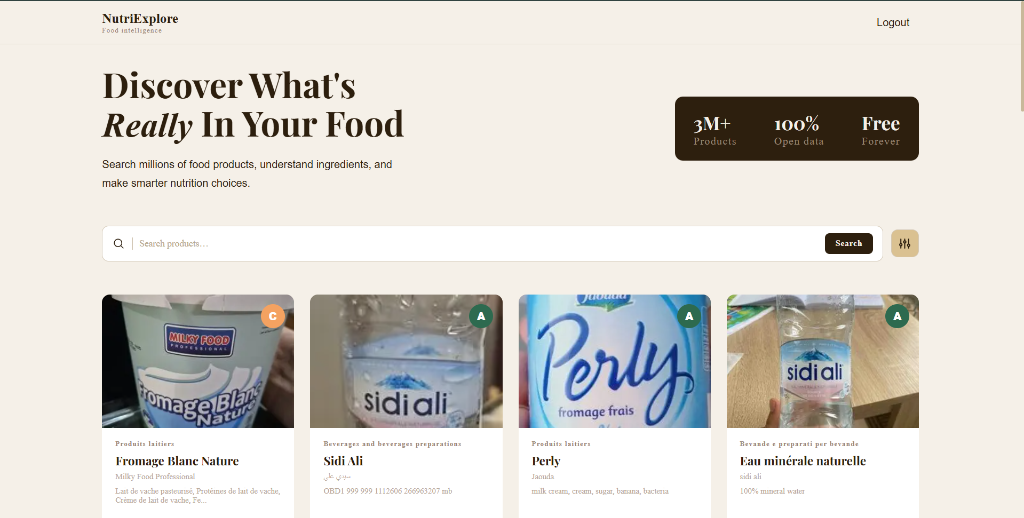
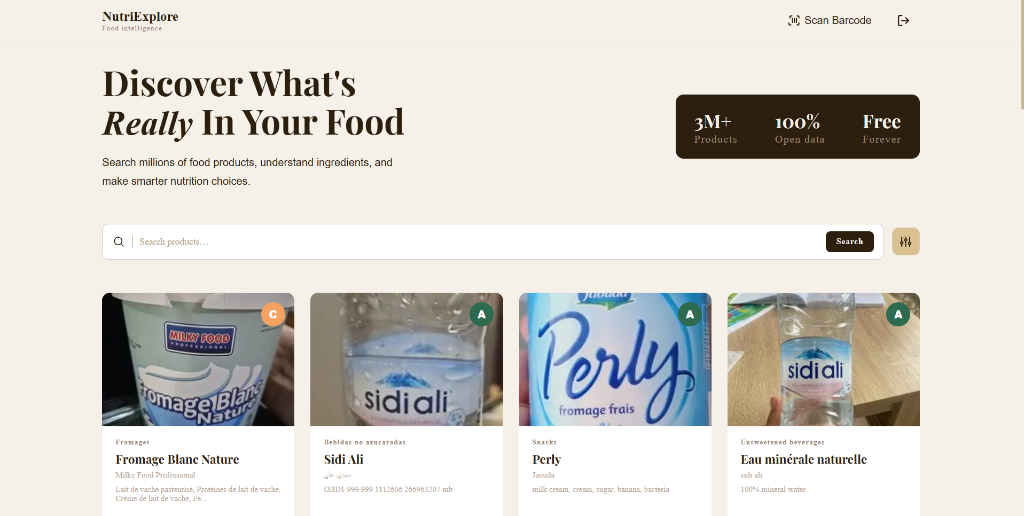
Kushagra dev (#60)
* Update page.jsx

* Import layout components and AnimatePresence

Update src/app/page.jsx to add useState/useEffect and AnimatePresence from framer-motion, and import Header, Main, and Footer components. Prepares the page to manage client-side state and mount layout components with presence animations.

* Mobile-friendly cursor & clicks for project cards

Make project cards usable on touch devices: move the global .project-row-card { cursor: none } into a min-width:501px media query and restore cursor styles for <=500px, ensuring links/buttons/image container show pointer on mobile. Update Main.jsx to initialize window width safely for SSR, set actual width on mount, and derive isMobile to components. ProjectCard now suppresses the hover tooltip on mobile, uses pointer cursor, handles clicks to open the live link only on mobile, and stops propagation on action clicks. These changes preserve the desktop aesthetic (hidden cursor) while restoring expected touch behavior and accessibility on mobile devices.

* Add dynamic Open Graph image component

Introduce an edge-runtime Open Graph image generator using Next.js ImageResponse (src/app/opengraph-image.jsx). Exports alt, size, contentType and composes a programmatic PNG with three stylized lines for the portfolio header. Remove the previous static opengraph-image.png in favor of this maintainable, dynamic JSX-based OG image.

* Update project.js

* Update Footer.jsx

* Replace favicon.ico with icon.png
[…]

diff --git a/src/data/project.js b/src/data/project.js
@@ -127,8 +127,19 @@ export const projectsData = [
     category: "Full Stack",
     title: "NutriExplore",
     description:
-      "Search out what's inside your packaged food. Check ingredients, nutrition, and product details in seconds.",
+      "Understanding what's actually inside packaged food can be difficult and time-consuming. NutriExplore simplifies this by providing instant access to millions of food products, their ingredients, and nutritional data.",
     image: "/projects/nutriexplore.png",
+    features: [
+      "Access to 3M+ products with 100% open data",
+      "Barcode scanning for instant product lookup",
+      "Nutri-Score and comprehensive ingredient analysis",
+      "Search and filter by product categories",
+    ],
+    problem:
+      "Scan any food packet's barcode to instantly uncover the truth about its ingredients.",
+
+    learned:
+      "Integrated the Open Food Facts API to handle massive amounts of open data, implemented barcode scanning functionality, and designed an intuitive UI to make complex nutritional information easily digestible.",
     links: {
       live: "https://nutriexplore.vercel.app/",
       github: "https://github.com/19Kushagra0/nutriexplore",
